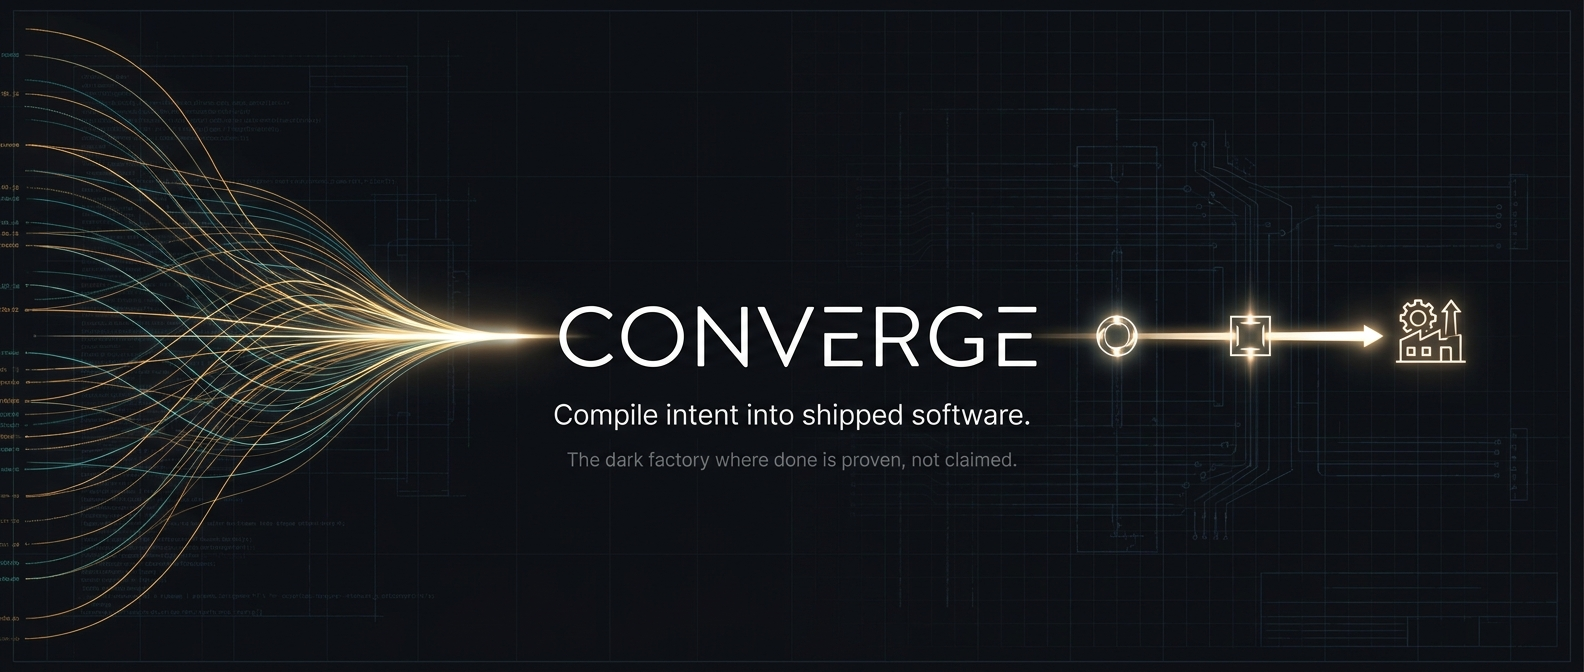
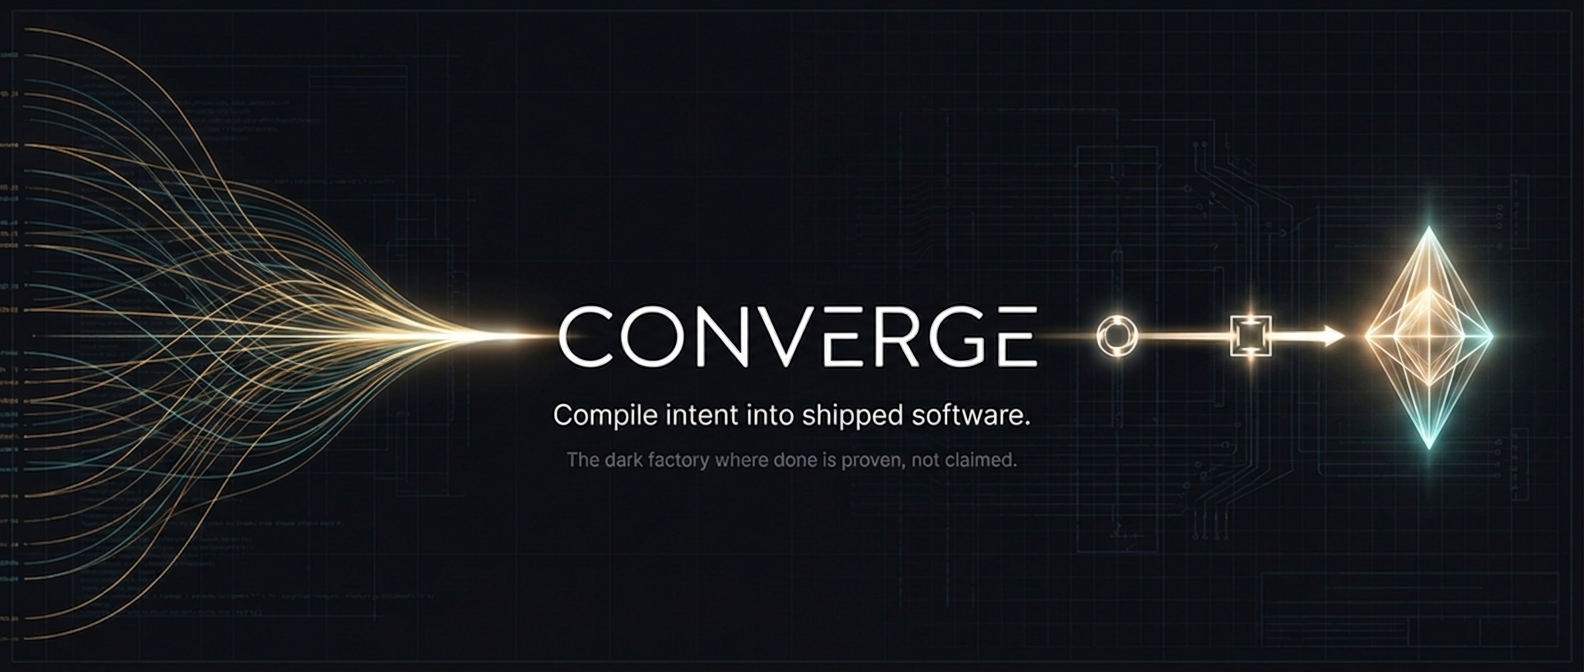
docs: the beam ends in a crystal, and the quickstart learns to talk
The banner's factory clipart becomes a faceted diamond-prism — many
converging light planes locking into one proven artifact, which is the
whole argument in one glyph. The npm block drops its comments.

The quickstart gains the missing register: after the CLI movements, a
chat transcript shows how a run actually flows — you steer in plain
language stage by stage, the agent (taught the surface by agent-context)
drives the gates, and every reply ends in the token that proves it.

diff --git a/README.md b/README.md
@@ -75,8 +75,8 @@ Three doors, same result: the eleven skills land in every harness's native direc
 **② npm / npx** — anywhere Node lives; the package embeds the CLI *and* all skills:
 
 ```bash
-npm install -g github:luanmorenommaciel/converge     # cvg + cvg-install on PATH
-cvg-install                                          # pin skills into the current repo
+npm install -g github:luanmorenommaciel/converge
+cvg-install
 ```
 
 Prefer project-local? `npm install -D github:luanmorenommaciel/converge`, then use
@@ -154,8 +154,40 @@ cvg loop --issue T-… --agent claude
 ```
 
 The loop lands in exactly one terminal state — `TASK_LOOP=SETTLED` on success, an honest named
-failure otherwise. Swap `--agent claude` for `codex` or `kimi`; the gates don't change. Agents
-can discover the whole surface in one call: `cvg agent-context`.
+failure otherwise. Swap `--agent claude` for `codex` or `kimi`; the gates don't change.
+
+**Or steer it from chat.** The commands above are the referee's surface — but the skills are
+installed *in your harness*, and `cvg agent-context` hands any agent the whole surface as one
+JSON manifest. So in practice you don't type `cvg` yourself: you steer in plain language, stage
+by stage, and the agent drives the gates. A real run reads like this:
+
+```text
+you   › I want a storm-alerts feed for our customers. Start a Converge run — capture it.
+agent › Pass 0 (idea-to-brd): drafting the BRD, grilling the gaps out of the idea…
+        CHECK_BRD=PASS — the brief is signed.
+
+you   › Take it to requirements and architecture.
+agent › Pass 1 (brd-docs-to-tech-req): CHECK_TECH_SPEC=PASS.
+        Pass 2 (tech-req-to-adrs): five ADRs recorded — CHECK_ADR=OK.
+
+you   › Break it down, then have Codex attack the plan.
+agent › Pass 3: two swimlanes, six legs — CHECK_PLAN=OK.
+        Pass 4: codex raised 3 objections. Two resolved; one needs your call.
+
+you   › Objection two is right — merge the retry logic into one leg. Then sign.
+agent › Plan amended. CHECK_CONSENSUS=OK — the barrier is behind us.
+
+you   › Cut the tasks and put them on the board.
+agent › Pass 5: six Task-Specs, evals authored first, all TIER=1 and HMAC-sealed.
+        Pass 6: six issues, dependencies as blocked-by — CHECK_REGISTER=OK.
+
+you   › Ship the first ready task.
+agent › Pass 7: contract bound — CHECK_RUNTIME_CONTRACT=PASS.
+        Pass 8: attempt → verify → repeat… evals green on iteration 2.
+        TASK_LOOP=SETTLED — PR opened, receipt written. Next ready task: 2 of 6.
+```
+
+You own intent and judgment; the factory owns procedure and proof.
 
 ## 🔁 How it works
 
